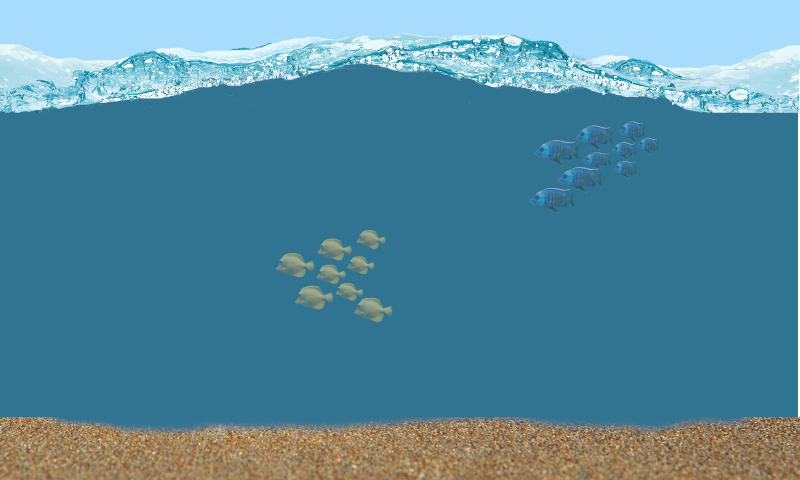
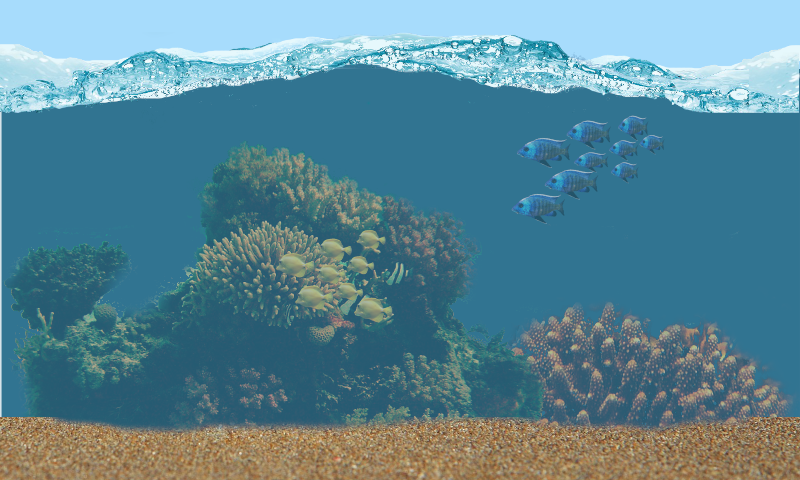
added some more background elements

Changed region(s): [[0.0, 0.3125, 1.0, 0.9062], [0.625, 0.2188, 0.8438, 0.4688]]

diff --git a/scripts/fish-game.js b/scripts/fish-game.js
@@ -13,6 +13,8 @@ function linkFishGame() {
     
         const fish_backround = new Image();
         fish_backround.src = "img/fish-game/background.png";
+        const fish_backround2 = new Image();
+        fish_backround2.src = "img/fish-game/transparent-background.png";
         const fish_school1 = new Image();
         fish_school1.src = "img/fish-game/yellow-fishschool.png";
         const fish_school2 = new Image();
@@ -21,6 +23,16 @@ function linkFishGame() {
         fish_waves.src = "img/fish-game/waves.png";
         const fish_sand = new Image();
         fish_sand.src = "img/fish-game/sand.png";
+        const coral1 = new Image();
+        coral1.src ="img/fish-game/coral1.png";
+        const coral2 = new Image();
+        coral2.src ="img/fish-game/coral2.png";
+        const coral3 = new Image();
+        coral3.src ="img/fish-game/coral3.png";
+        const coral4 = new Image();
+        coral4.src ="img/fish-game/coral3.png";
+
+
 
         let x = 0;
         let x2 = 800;
@@ -28,14 +40,23 @@ function linkFishGame() {
         function animate() {
             ctx.clearRect(0, 0, CANVAS_WIDTH, CANVAS_HEIGHT)
             ctx.drawImage(fish_backround, 0, 0)
-            ctx.drawImage(fish_school1, x, 0)
+            // ctx.drawImage(coral2, x, 0)
             ctx.drawImage(fish_school2, x, 0)
-
+            ctx.drawImage(coral1, x, 0)
+            ctx.drawImage(coral3, x, 0)
+            ctx.drawImage(coral1, x2, 0)
+            ctx.drawImage(coral3, x2, 0)
+            ctx.drawImage(fish_school1, x, 0)
+            ctx.drawImage(fish_backround2, 0, 0)
+            
+            
             ctx.drawImage(fish_sand, x, 0)
             ctx.drawImage(fish_waves, x, 0)
             ctx.drawImage(fish_sand, x2, 0)
             ctx.drawImage(fish_waves, x2, 0)
-
+            
+            // ctx.drawImage(coral4, x, 0)
+            
             if (x < -800) {
                 x = 799 +x2;
             } else {
